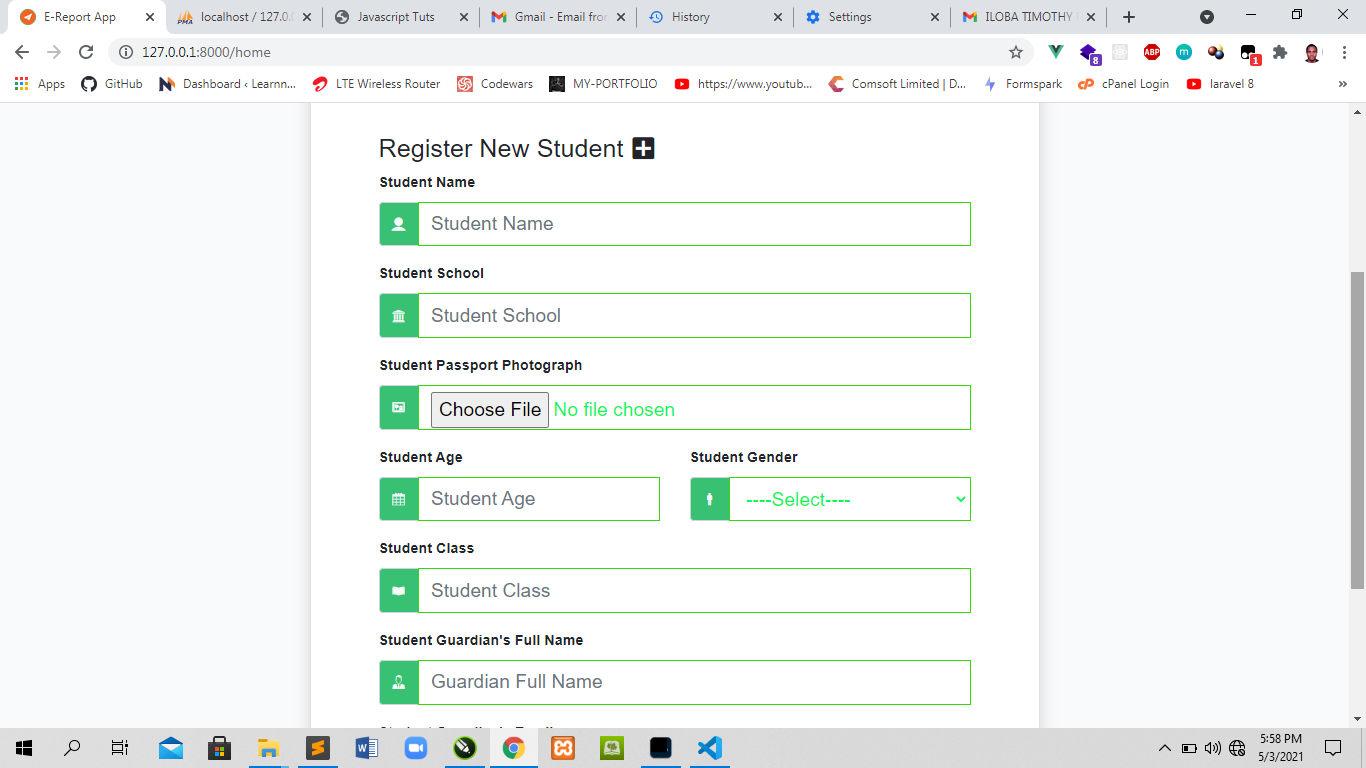
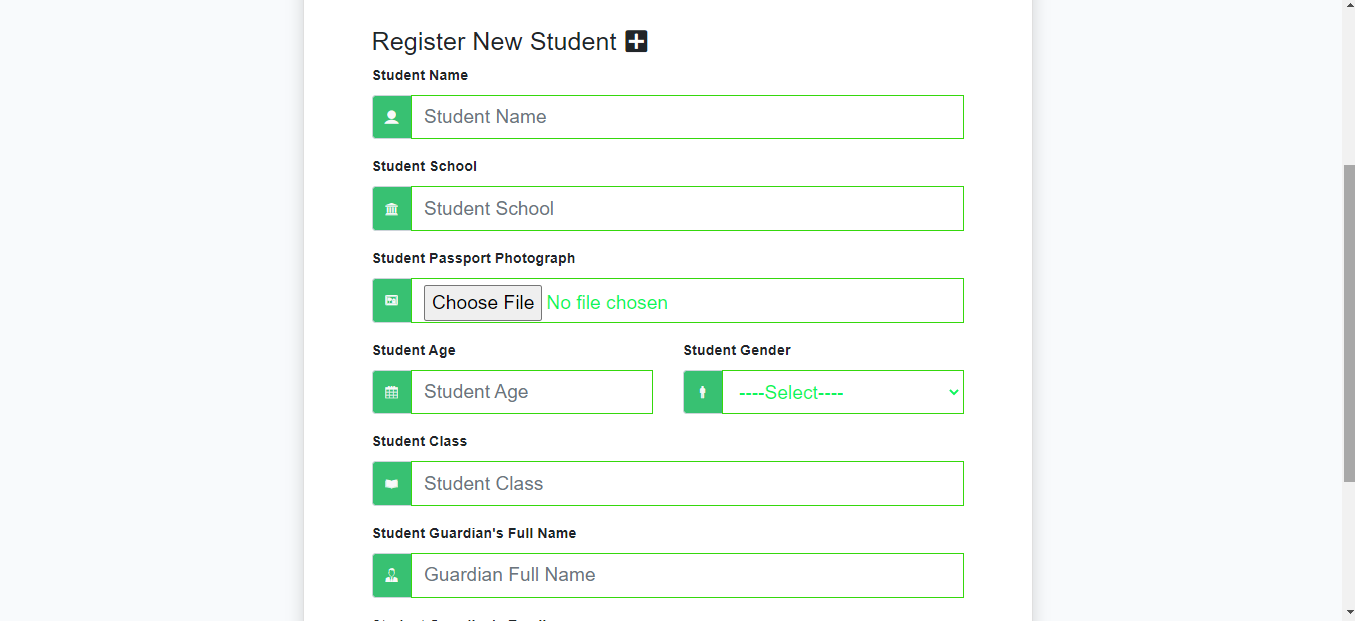
work

Changed region(s): [[0.0, 0.0, 1.0, 1.0], [0.9919, 0.2448, 1.0, 0.7955]]

diff --git a/public/css/app.css b/public/css/app.css
@@ -10992,3 +10992,21 @@ ul li{
   font-size: 20px;
   line-height: 30px;
 }
+::-webkit-scrollbar {
+  width: 10px;
+}
+
+/* Track */
+::-webkit-scrollbar-track {
+  background: #f1f1f1; 
+}
+ 
+/* Handle */
+::-webkit-scrollbar-thumb {
+  background: #888; 
+}
+
+/* Handle on hover */
+::-webkit-scrollbar-thumb:hover {
+  background: #38c172; 
+}

diff --git a/resources/views/welcome.blade.php b/resources/views/welcome.blade.php
@@ -186,7 +186,7 @@
                         </div>
                         <div class="col-md-6">
                             <div class="card shadow">
-                                <img class="img-fluid" src="{{asset('./img/send-report.png')}}" alt="E-report">
+                                <img class="img-fluid" src="{{asset('./img/parent-mail.png')}}" alt="E-report">
                                 <div class="card-body">
                                     <h5 class="card-title"><b>Parents will recieve report in their email in no time</b></h5>
                                     <p class="card-text">
@@ -217,12 +217,14 @@
             <a href="/"><img class="footer-logo img-fluid mx-auto d-block mb-2" src="{{asset('./img/e-logo.png')}}" alt="E-report"></a>
             
             <div class="d-flex justify-content-center">
-               <a class="nav-link text-secondary" href="#"> <i class="icofont-facebook"></i></a>
-               <a class="nav-link text-secondary" href="#"> <i class="icofont-instagram"></i></a>
-               <a class="nav-link text-secondary" href="#"> <i class="icofont-twitter"></i></a>
-               <a class="nav-link text-secondary" href="#"> <i class="icofont-linkedin"></i></a>
+                <a target="_blank" class="nav-link text-secondary" href="https://twitter.com/e_schoolreport"> <i class="icofont-twitter"></i></a>
+               <a target="_blank" class="nav-link text-secondary" href="#"> <i class="icofont-facebook"></i></a>
+               <a target="_blank" class="nav-link text-secondary" href="#"> <i class="icofont-instagram"></i></a>
+               <a target="_blank" class="nav-link text-secondary" href="#"> <i class="icofont-linkedin"></i></a>
             </div>
-            <p class="text-center mt-2">&copy; e-report 2021</p>
+            <p class="text-center mt-2">&copy; e-report @php
+                echo date('Y');
+            @endphp</p>
         </footer>
 
        
